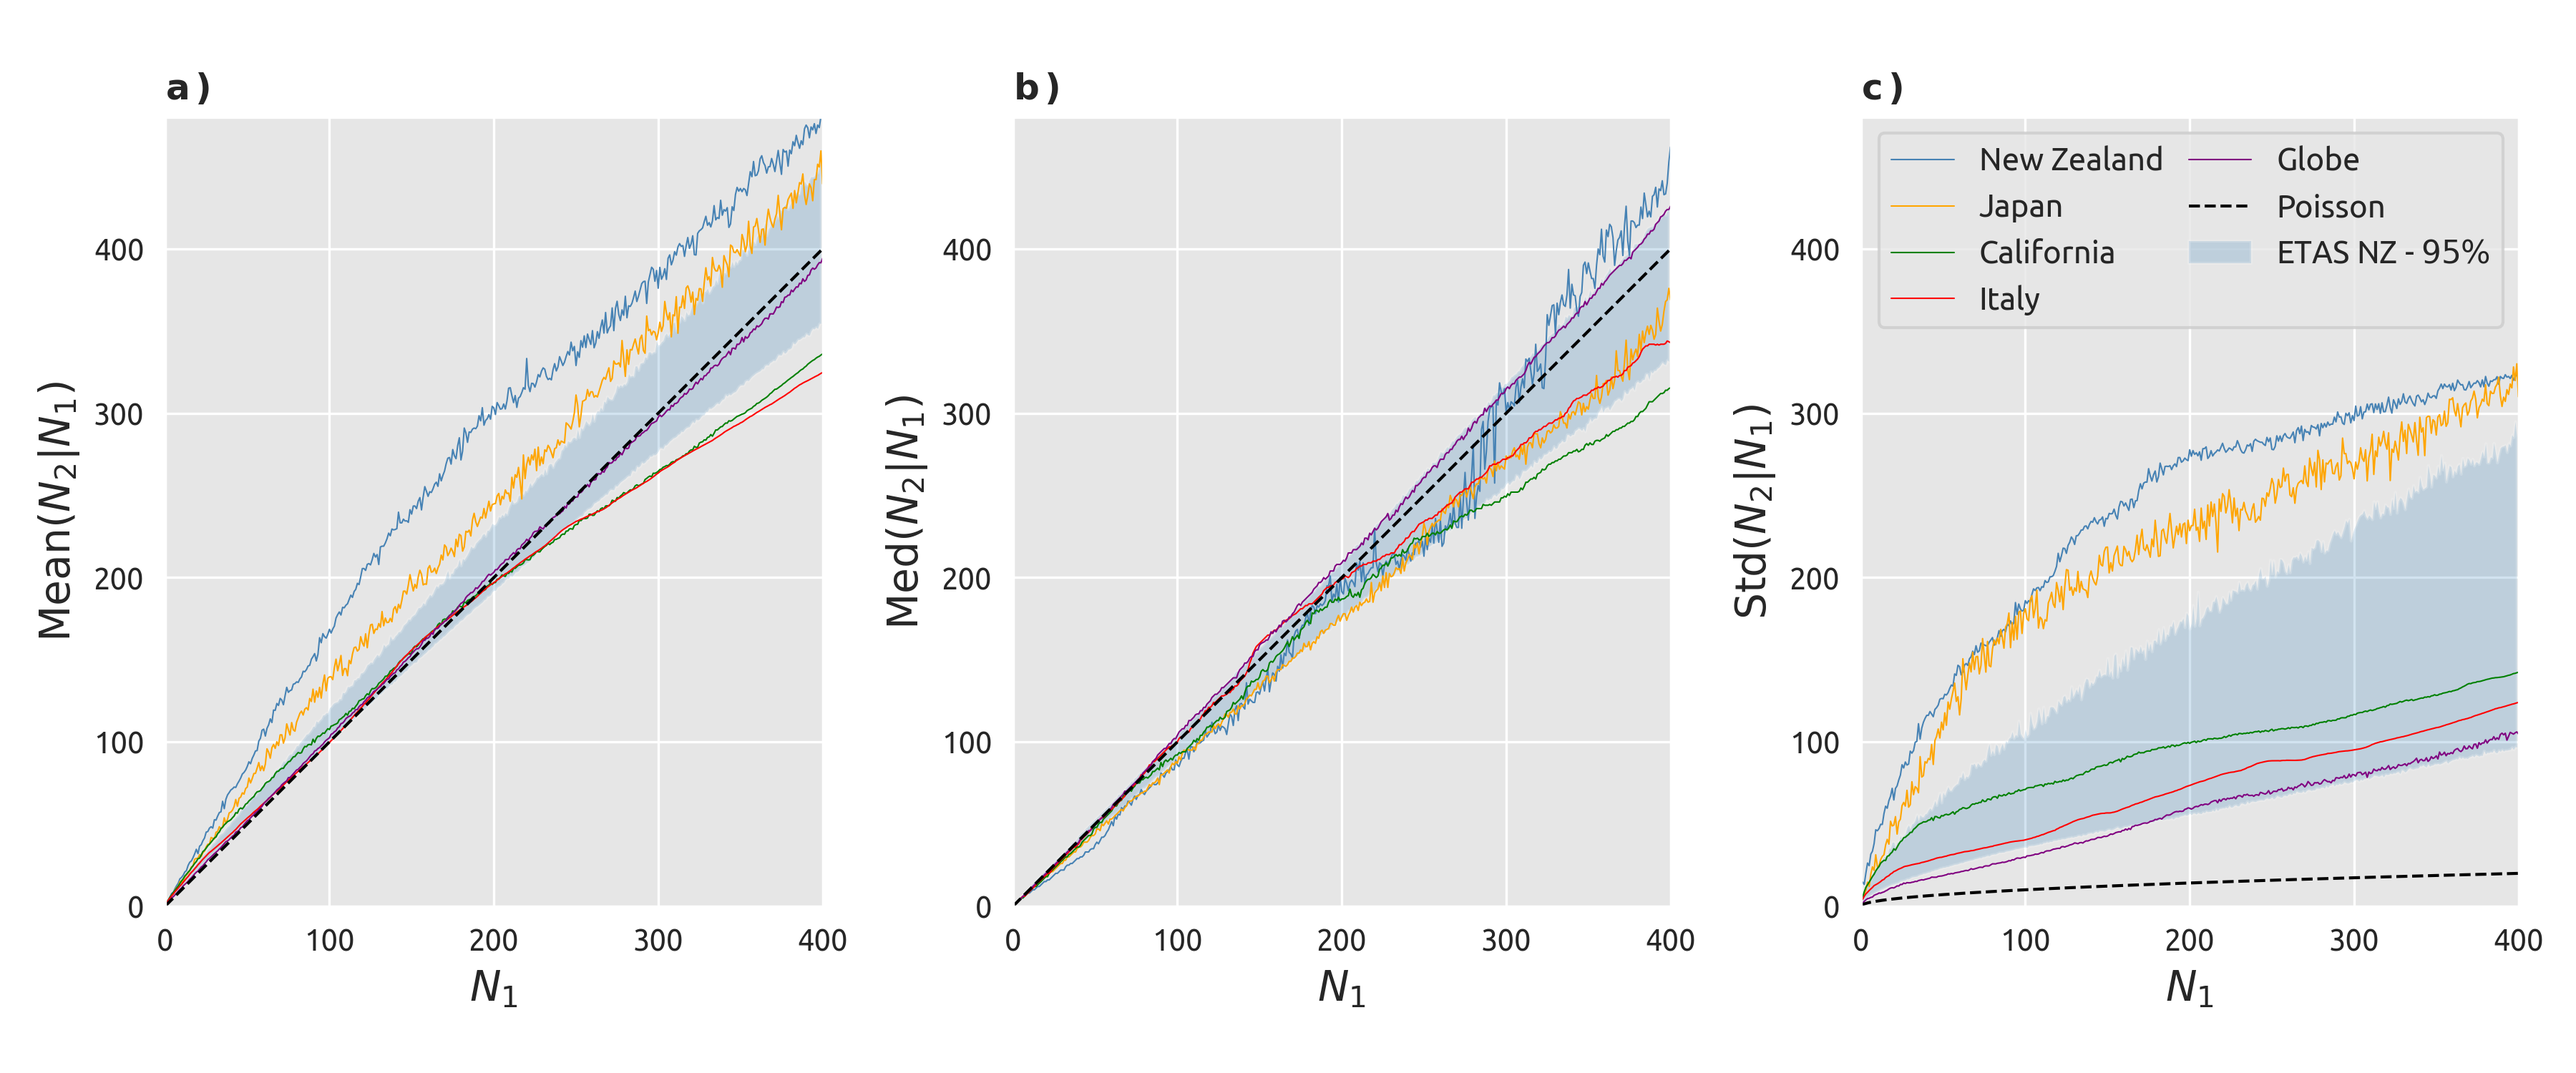
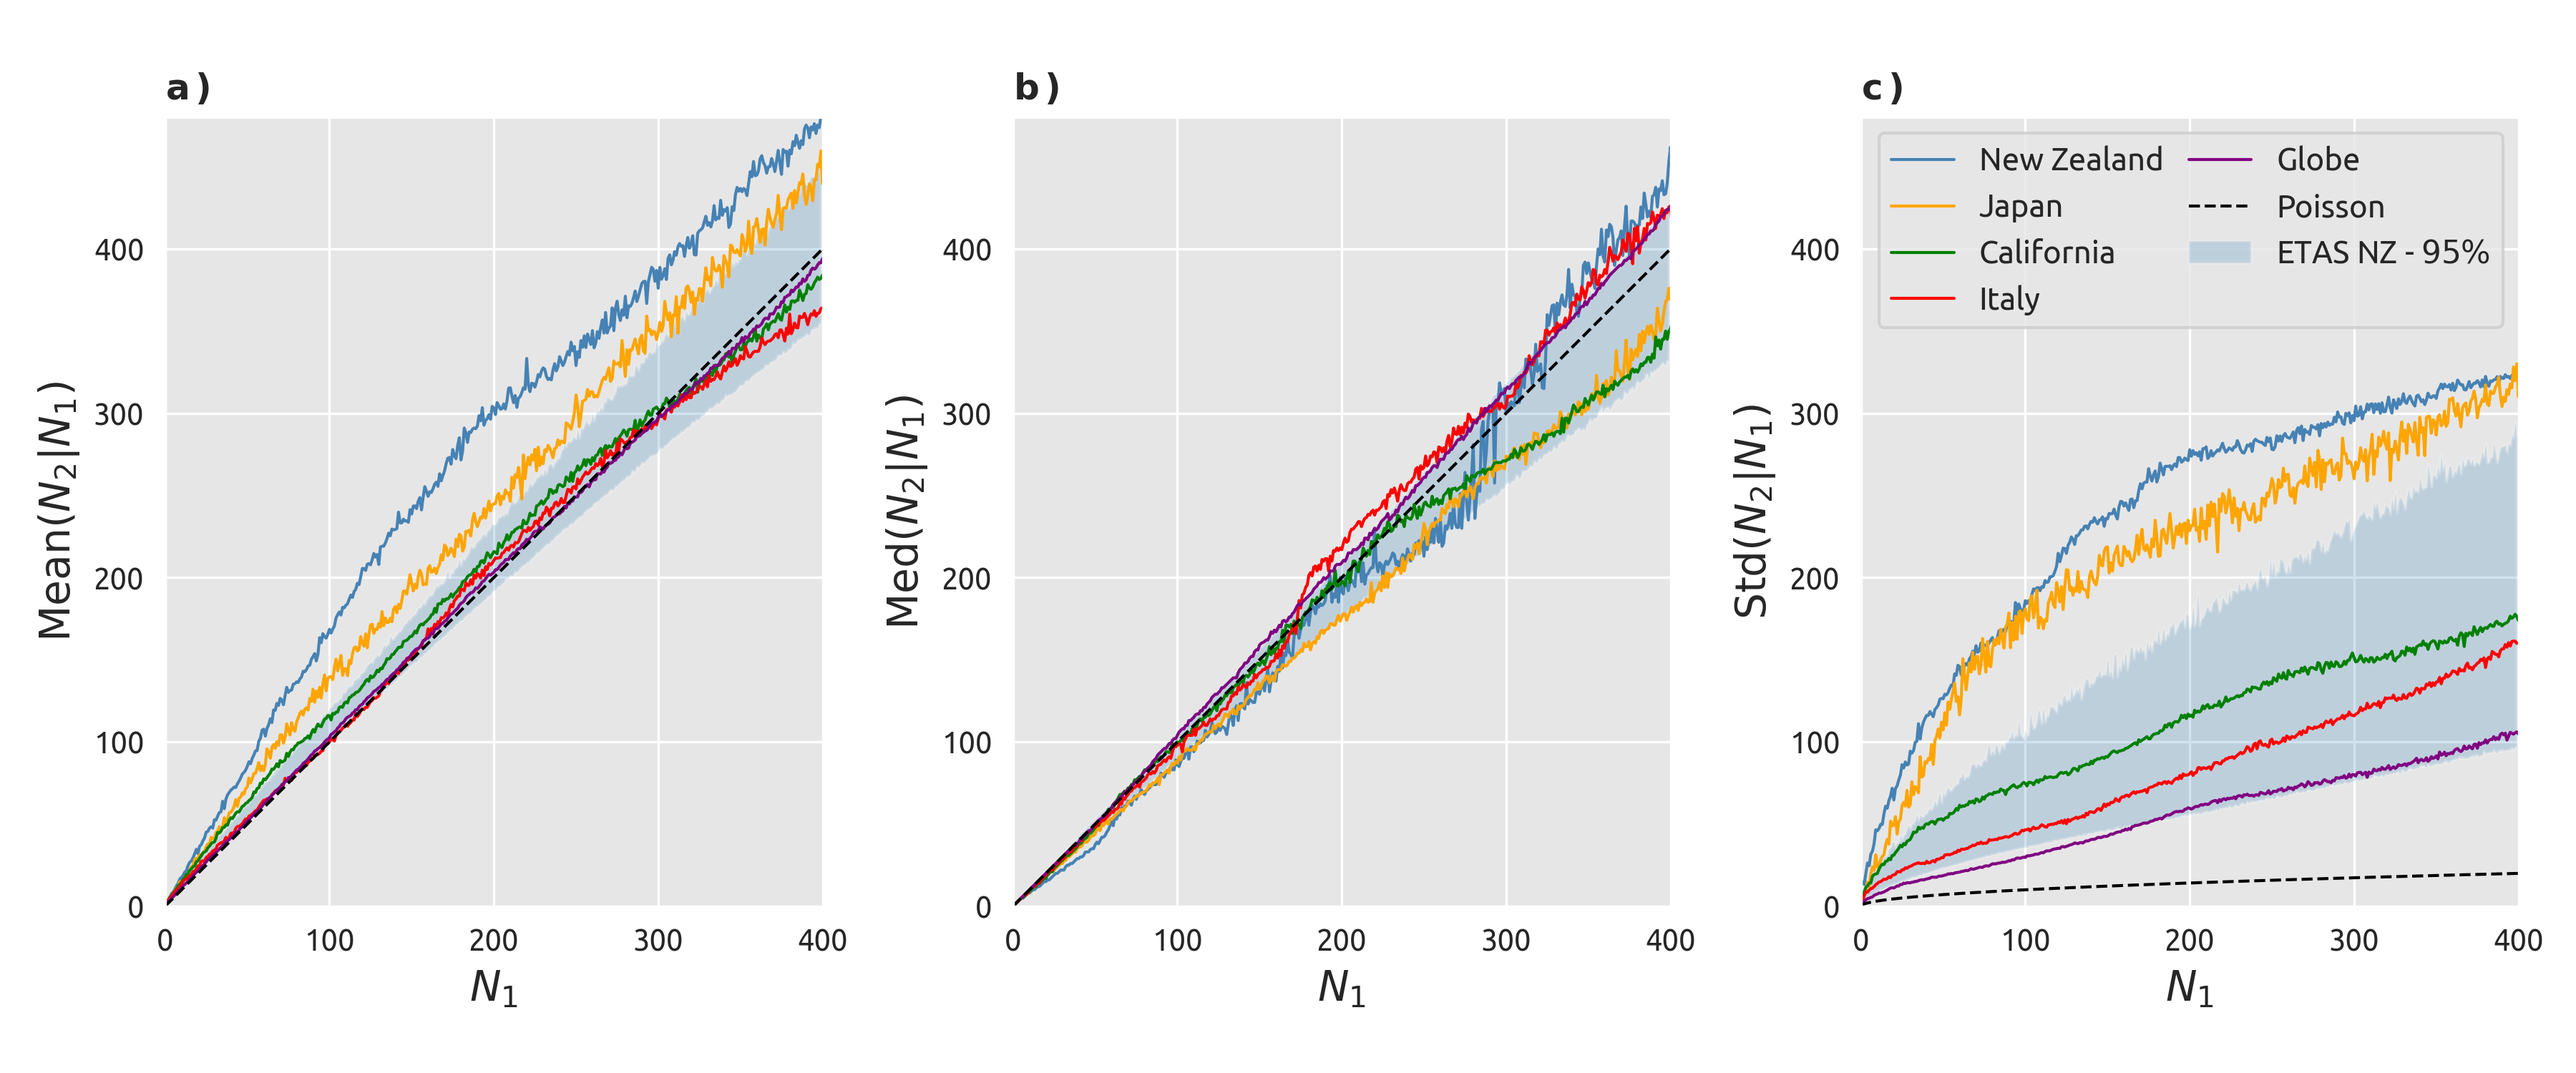
Updated california mc

diff --git a/run/E_ratevar_analysis.py b/run/E_ratevar_analysis.py
@@ -35,13 +35,12 @@ def rate_var_regions():
                                     mws=(3.99, 10),
                                     depth=(30, -2))
     cat_ca = catalogs.filter_cat(catalogs.get_cat_ca(query=False),
-                                 start_time=dt(1981, 1, 1),
+                                 start_time=dt(1962, 1, 1),
                                  mws=(3.99, 10),
                                  depth=(30, -2),
                                  )
     cat_it = catalogs.filter_cat(catalogs.get_cat_it(),
                                  start_time=dt(1960, 1, 1),
-                                 shapefile=paths.region_it,
                                  mws=(3.99, 10),
                                  depth=(30, -2))
     cat_globe = catalogs.filter_cat(catalogs.get_cat_global(),
@@ -49,7 +48,7 @@ def rate_var_regions():
                                     mws=(5.99, 10),
                                     depth=(70, -2))
 
-    for cat in [cat_nz, cat_japan, cat_it, cat_ca, cat_globe][1:2]:
+    for cat in [cat_nz, cat_japan, cat_it, cat_ca, cat_globe][2:3]:
         analysis = CatalogAnalysis(cat, name=cat.name, params=RATE_VAR_PARAMS)
         analysis.get_ratevar()
         analysis.cat_var.get_stats()
@@ -94,7 +93,7 @@ def fig_ratevar(figpath, nsims=1000, savefig=True):
     axs[0].fill_between(np.arange(n_max), etas_025, etas_0975, alpha=0.2,
                         label=r'ETAS - Sim. $95\%$ envelope ')
     for i, j, k in zip(analyses, names, colors):
-        i.cat_var.plot_stats('mean', ax=axs[0], label=j, color=k)
+        i.cat_var.plot_stats('mean', ax=axs[0], label=j, color=k, linewidth=1)
     axs[0].plot(np.arange(0, 1.2*n_max), np.arange(0, 1.2*n_max),
                 color='black', linestyle='--', linewidth=1, label='Poisson')
     axs[0].set_xlim([0, n_max])
@@ -112,7 +111,8 @@ def fig_ratevar(figpath, nsims=1000, savefig=True):
     axs[1].fill_between(np.arange(n_max), etas_025, etas_0975, alpha=0.2,
                         label=r'ETAS - Sim. $95\%$ envelope ')
     for i, j, k in zip(analyses, names, colors):
-        i.cat_var.plot_stats('median', ax=axs[1], label=j, color=k)
+        i.cat_var.plot_stats('median', ax=axs[1],
+                             label=j, color=k, linewidth=1)
     axs[1].plot(np.arange(0, 1.2*n_max), np.arange(0, 1.2*n_max),
                 color='black', linestyle='--', linewidth=1, label='Poisson')
     axs[1].set_xlim([0, n_max])
@@ -124,7 +124,7 @@ def fig_ratevar(figpath, nsims=1000, savefig=True):
 
     # Standard Dev. plot
     for i, j, k in zip(analyses, names, colors):
-        i.cat_var.plot_stats('std', ax=axs[2], label=j, color=k)
+        i.cat_var.plot_stats('std', ax=axs[2], label=j, color=k, linewidth=1)
     axs[2].plot(np.arange(0, 1.2*n_max), np.sqrt(np.arange(0, 1.2*n_max)),
                 color='black', linestyle='--', linewidth=1, label='Poisson')
     etas_025 = [np.quantile([i.cat_var.stats['var'][j]**0.5 for i in etas],

diff --git a/run/A_get_catalogs.py b/run/A_get_catalogs.py
@@ -22,8 +22,8 @@ if __name__ == '__main__':
                          mws=[3.99, None], depth=[40, -2],
                          shapefile=paths.region_nz_collection))
     # california already filtered to the csep region from pycsep query
-    cat_ca = cat_oq2csep(filter_cat(get_cat_ca(), start_time=dt(1981, 1, 1),
-                        mws=[3.99, None], depth=[30, -2]))
+    cat_ca = cat_oq2csep(filter_cat(get_cat_ca(), start_time=dt(1962, 1, 1),
+                         mws=[3.99, None], depth=[30, -2]))
     cat_jp = cat_oq2csep(filter_cat(get_cat_japan(),
                          start_time=dt(1985, 1, 1), end_time=dt(2011, 1, 1),
                          mws=[3.99, None], depth=[30, -2],
